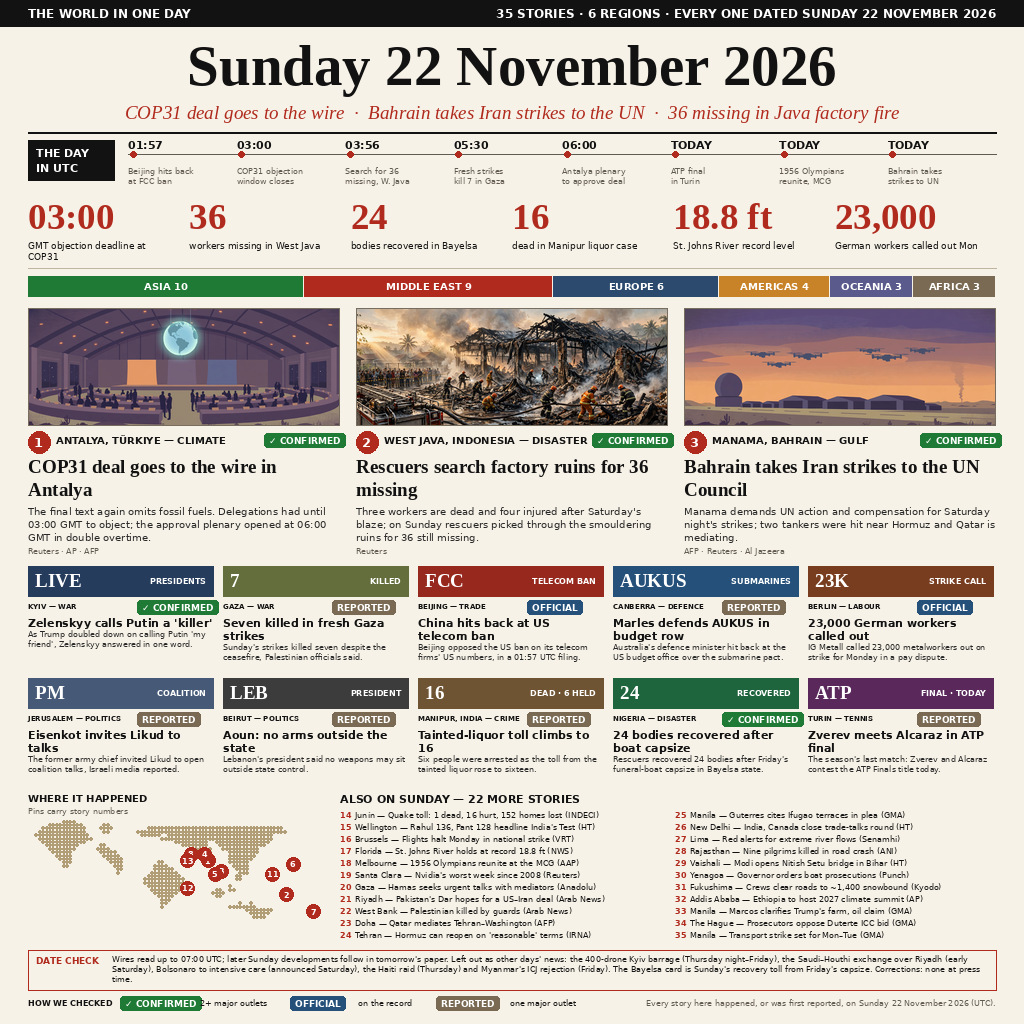
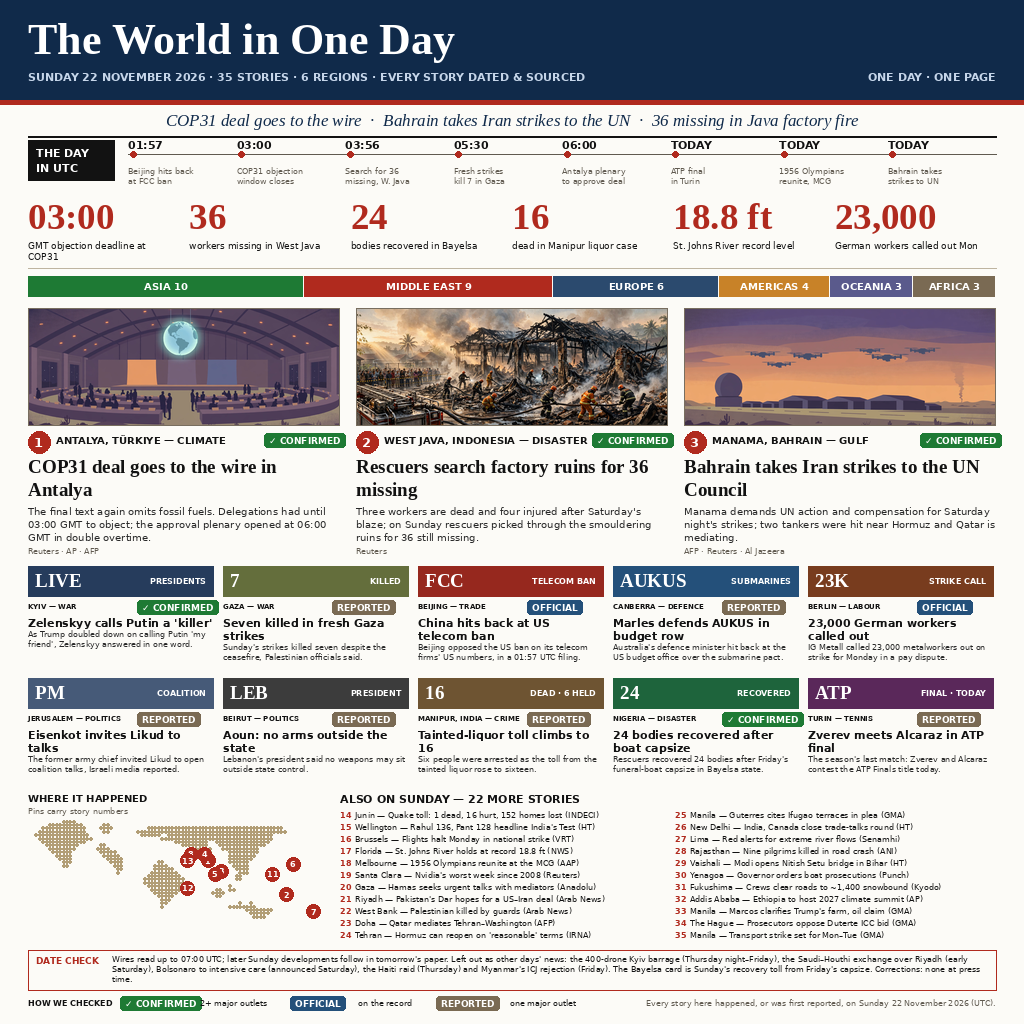
v4: our navy masthead identity, detailed covers, full verification system

Changed region(s): [[0.0, 0.0, 1.0, 0.1562]]

diff --git a/compose.py b/compose.py
@@ -4,11 +4,11 @@
 Composes the one-page newspaper for the make.fun bounty
 "news-image-20261122": 35 dated stories from Sunday 22 November
 2026, every one carrying its verification badge and its sources on
-the page itself.  The layout follows the system the winning pages
-use: a cream sheet, a giant serif date, a strip of huge red
-numbers, bespoke infographics for the three leads, numbered cards
-and briefs, a pin map, and a DATE CHECK box that says what was
-left out and why.
+the page itself.  The design is this paper's own: the navy
+masthead it has carried since its first edition, detailed cover
+illustrations for the three leads, a strip of the day's big
+numbers, numbered cards and briefs, a pin map, and a DATE CHECK
+box that says what was left out and why.
 
 Deterministic: no network, no clock, no randomness.  Running it
 twice produces a byte-identical entry.png.
@@ -18,7 +18,7 @@ from PIL import Image, ImageDraw, ImageFont
 
 W = H = 1024
 MARGIN = 28
-CREAM = (247, 242, 231)
+CREAM = (252, 251, 247)
 INK = (18, 18, 18)
 RED = (176, 42, 30)
 GRAY = (96, 90, 80)
@@ -322,18 +322,19 @@ def build():
     d = ImageDraw.Draw(img)
     CW = W - 2 * MARGIN  # 968
 
-    # masthead strip
-    d.rectangle([0, 0, W, 26], fill=INK)
-    d.text((MARGIN, 6), "THE WORLD IN ONE DAY", font=F(SANS_B, 12), fill=(255, 255, 255))
-    right = f"35 STORIES · 6 REGIONS · EVERY ONE DATED {DAY_UP}"
-    d.text((W - MARGIN - d.textlength(right, font=F(SANS_B, 12)), 6), right,
-           font=F(SANS_B, 12), fill=(255, 255, 255))
-    # date + subhead
-    f_date = F(SERIF, 57)
-    d.text(((W - d.textlength(DAY, font=f_date)) / 2, 34), DAY, font=f_date, fill=INK)
-    f_sub = F(SERIF_IT, 19)
-    d.text(((W - d.textlength(SUBHEAD, font=f_sub)) / 2, 102), SUBHEAD, font=f_sub, fill=RED)
-    d.line([MARGIN, 132, W - MARGIN, 132], fill=INK, width=2)
+    # masthead — our own navy block, the paper's standing identity
+    NAVY2 = (16, 42, 74)
+    d.rectangle([0, 0, W, 100], fill=NAVY2)
+    d.rectangle([0, 100, W, 104], fill=RED)
+    d.text((MARGIN, 14), "The World in One Day", font=F(SERIF, 44), fill=(255, 255, 255))
+    d.text((MARGIN, 70), f"{DAY_UP} · 35 STORIES · 6 REGIONS · EVERY STORY DATED & SOURCED",
+           font=F(SANS_B, 11), fill=(198, 214, 234))
+    tag = "ONE DAY · ONE PAGE"
+    d.text((W - MARGIN - d.textlength(tag, font=F(SANS_B, 11)), 70), tag,
+           font=F(SANS_B, 11), fill=(198, 214, 234))
+    f_sub = F(SERIF_IT, 17)
+    d.text(((W - d.textlength(SUBHEAD, font=f_sub)) / 2, 110), SUBHEAD, font=f_sub, fill=NAVY2)
+    d.line([MARGIN, 136, W - MARGIN, 136], fill=INK, width=2)
 
     # timeline
     ty = 140
